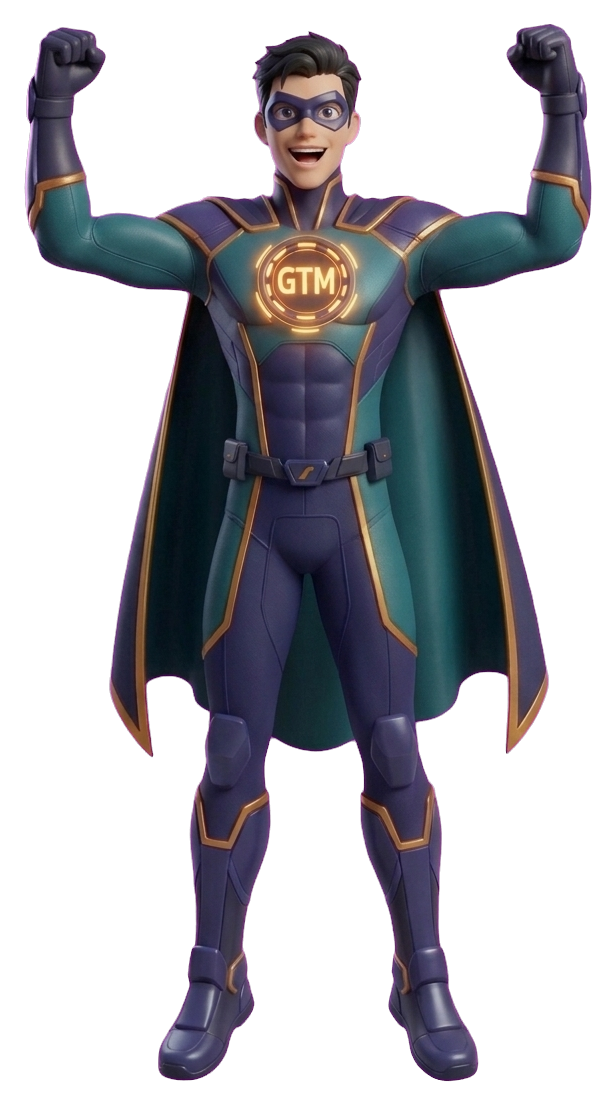
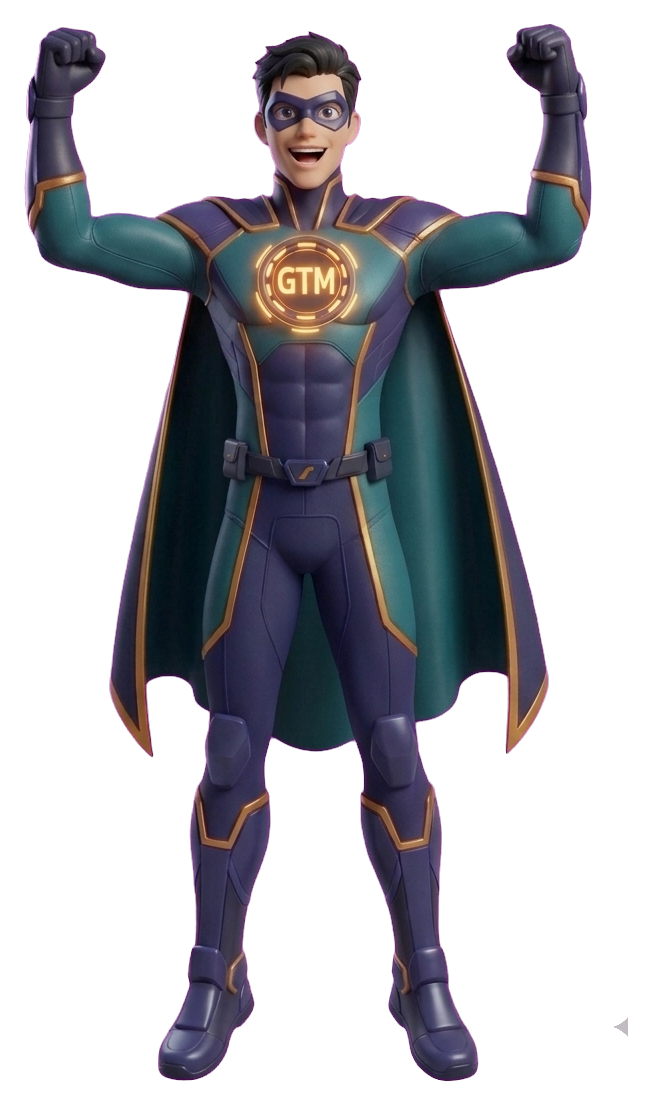
Refine pose keying: targeted watermark patch and despill

diff --git a/scripts/key_poses.py b/scripts/key_poses.py
@@ -1,4 +1,4 @@
-#!/usr/bin/env python3
+#!/usr/bin/env python3
 """Key the magenta pose renders into transparent PNGs for the Hero Kit.
 
 - patches the Gemini sparkle in the bottom-right corner
@@ -58,8 +58,8 @@ def key_image(src: Path, dst: Path) -> None:
 
     # Patch the Gemini sparkle (bottom-right) with the local background colour.
     # The sparkle sits just above the corner, so cover a tall corner block.
-    patch_w, patch_h = 180, 230
-    x0, y0 = w - patch_w, h - patch_h
+    patch_w, patch_h = 100, 100
+    x0, y0 = w - 125, h - 155
     arr[max(0, y0) : h, max(0, x0) : w] = bg
 
     # Soft chroma key by colour distance to the background.
